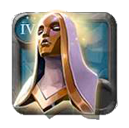
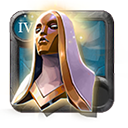
Some fixes and avalon images

diff --git a/pages/tree.vue b/pages/tree.vue
@@ -3,13 +3,12 @@
     <Header class="header" />
     <!--<TreeItem :item='tree'/>-->
     <div class="wrapper">
-      <Settings 
+      <Settings
         :loading-text="loadingText" 
         class="wrapper__fixed" 
         @changeUseJournals="changeUseJournals" 
+        @dropStore="/*dropStore*/"
         @changeCity="changeCity"
-        @downloadResourcePrices="fetchResourcePrices"
-        @updateCurrentItem="updateCurrentItem"
       />
       <div>
         <Row 
@@ -29,11 +28,11 @@
 </template>
 
 <script>
-import Header from '~/components/Header';
-import Row from '~/components/Row';
-import ItemTable from '~/components/ItemTable';
-import Settings from '~/components/Settings';
-import Loading from '~/components/Loading';
+import Header from "~/components/Header";
+import Row from "~/components/Row";
+import ItemTable from "~/components/ItemTable";
+import Settings from "~/components/Settings";
+import Loading from "~/components/Loading";
 
 export default {
   components: {
@@ -41,23 +40,23 @@ export default {
     Row,
     ItemTable,
     Settings,
-    Loading,
+    Loading
   },
   data() {
     return {
       tree: [],
       isTableShowed: false,
-      lastName: '',
+      lastName: "",
       tableData: {},
-      city: 'Caerleon',
+      city: "Caerleon",
       useJournals: false,
-      currentItem: '',
-      root: '',
-      loadingText: ''
+      currentItem: "",
+      root: "",
+      loadingText: ""
     };
   },
   created: async function() {
-    await this.$store.dispatch('FETCH_STATE');
+    await this.$store.dispatch("FETCH_STATE");
     this.tree = this.$store.state.tree;
   },
   methods: {
@@ -100,57 +99,82 @@ export default {
     },
 
     fetchItemPricesWithArtefacts: async function() {
-      this.loadingText = 'Loading item prices';
+      this.loadingText = "Loading item prices";
 
-      await this.$store.dispatch('FETCH_ITEM_PRICE', {
+      await this.$store.dispatch("FETCH_ITEM_PRICE", {
         itemName: this.currentItem,
         location: this.city
-      })
+      });
     },
 
     /**
      * Get resource prices for current city
      */
     fetchResourcePrices: async function() {
-      this.loadingText = 'Loading resource prices';
+      this.loadingText = "Loading resource prices";
 
-      await this.$store.dispatch('FETCH_RESOURCE_PRICES', this.city);
+      await this.$store.dispatch("FETCH_RESOURCE_PRICES", this.city);
     },
 
     fetchJournalPrices: async function() {
-      this.loadingText = 'Loading journal prices';
+      this.loadingText = "Loading journal prices";
 
-      await this.$store.dispatch('FETCH_JOURNAL_PRICES', {
+      await this.$store.dispatch("FETCH_JOURNAL_PRICES", {
         location: this.city,
         root: this.root
-      })
+      });
     },
 
     updateCurrentItem: function() {
-      console.log('Doesn\'t work yet');
+      console.log("Doesn't work yet");
     },
 
     checkAllPricesAndFetchIt: async function() {
-      const normalCity = this.city == 'Black Market' ? 'Caerleon' : this.city;
+      const normalCity = this.city == "Black Market" ? "Caerleon" : this.city;
 
-      if (!this.$store.state.prices[this.currentItem] || !this.$store.state.prices[this.currentItem][this.city]){
+      if (
+        !this.$store.state.prices[this.currentItem] ||
+        !this.$store.state.prices[this.currentItem][this.city]
+      ) {
         await this.fetchItemPricesWithArtefacts();
       }
-      
+
       if (isObjectEmpty(this.$store.state.resources[normalCity])) {
         await this.fetchResourcePrices();
       }
 
-      if (this.useJournals && !this.$store.state.journals[normalCity][this.root] && this.root.slice(0,5) == 'ROOT_') {
+      if (
+        this.useJournals &&
+        !this.$store.state.journals[normalCity][this.root] &&
+        this.root.slice(0, 5) == "ROOT_"
+      ) {
         await this.fetchJournalPrices();
       }
 
       this.updateTableData();
     },
 
+    dropStore: function(data) {
+      const normalCity = this.city == "Black Market" ? "Caerleon" : this.city;
+      
+      switch (data) {
+        case "items":
+          this.$store.state.prices[this.currentItem] = {};
+          break;
+        case "resources":
+          this.$store.state.resources[normalCity] = {};
+          break;
+        case "journals":
+          this.$store.state.journals[normalCity] = {};
+          break;
+      }
+
+      this.checkAllPricesAndFetchIt();
+    },
+
     updateTableData: function() {
-      this.loadingText = 'Profit calculated';
-      const city = this.city == 'Black Market' ? 'Caerleon' : this.city;
+      this.loadingText = "Profit calculated";
+      const city = this.city == "Black Market" ? "Caerleon" : this.city;
 
       this.tableData = {
         items: this.$store.state.prices[this.currentItem][this.city],
@@ -159,11 +183,13 @@ export default {
         itemName: this.currentItem,
         recipe: this.$store.state.recipes[this.currentItem],
         useJournals: this.useJournals,
-        journals: this.useJournals ? this.$store.state.journals[this.city][this.root] : {},
+        journals: this.useJournals
+          ? this.$store.state.journals[this.city][this.root]
+          : {},
         root: this.root
       };
     }
-  },
+  }
 };
 
 function isObjectEmpty(obj) {

diff --git a/components/Settings.vue b/components/Settings.vue
@@ -12,26 +12,34 @@
     </div>
     <div 
       class="refresh_item" 
-      @click="$emit('updateCurrentItem')">
+      @click="$emit('dropStore','journals')">
+      <img 
+        src="/images/redo-alt.svg" 
+        alt >
+      <p>Update journal prices</p>
+    </div>
+    <div 
+      class="refresh_item" 
+      @click="$emit('dropStore', 'items')">
       <img 
         src="images/redo-alt.svg" 
         alt >
       <p>Update current item</p>
     </div>
-    <div class="refresh_item">
+    <div 
+      class="refresh_item" 
+      @click="$emit('dropStore', 'resources')">
+      <img 
+        src="/images/redo-alt.svg" 
+        alt >
+      <p>Update resource prices</p>
+    </div>
+    <!--<div class="refresh_item">
       <img 
         src="images/sync-alt.svg" 
         alt >
       <p>Reload all prices</p>
-    </div>
-    <div 
-      class="refresh_item" 
-      @click="$emit('downloadResourcePrices')">
-      <img 
-        src="images/arrow-alt-circle-down.svg" 
-        alt >
-      <p>Update resource prices</p>
-    </div>
+    </div>-->
     <select 
       v-model="city" 
       class="city"
@@ -90,7 +98,8 @@ export default {
     display: none;
 
     &:checked + label:after {
-      background: #488a36;
+      background: #e08c4c;
+      animation: gradient 60s ease infinite;
     }
   }
 

diff --git a/store/index.ts b/store/index.ts
@@ -2,7 +2,7 @@ import Vue from 'vue'
 import Vuex from 'vuex'
 import axios from 'axios'
 import {createStringOfAllTiers, createStringOfAllResources, createStringOfAllArtefacts, createStringOfAllJournals} from './utils'
-import {Prices, ResponseModel, RootState} from './typeDefs'
+import {ResponseModel, RootState} from './typeDefs'
 
 Vue.use(Vuex)
 
@@ -40,7 +40,7 @@ const store = () => new Vuex.Store({
      */
     async FETCH_ITEM_PRICE({commit, state, dispatch}, {itemName, location}) {
       const allNames: string = createStringOfAllTiers(itemName);
-      const artefacts = ['UNDEAD', 'KEEPER', 'HELL', 'MORGANA'];
+      const artefacts = ['UNDEAD', 'KEEPER', 'HELL', 'MORGANA', 'AVALON'];
 
       await axios
         .get(`https://www.albion-online-data.com/api/v2/stats/prices/${allNames}?locations=${location}&qualities=1,2,3`)

diff --git a/components/ItemTable.vue b/components/ItemTable.vue
@@ -251,7 +251,7 @@ export default {
     align-items: center;
     flex-direction: column;
     height: 100%;
-    bottom: 0px;
+    bottom: -1px;
     right: -1px;
     z-index: 50;
     padding: 3px 6px 6px 6px;
